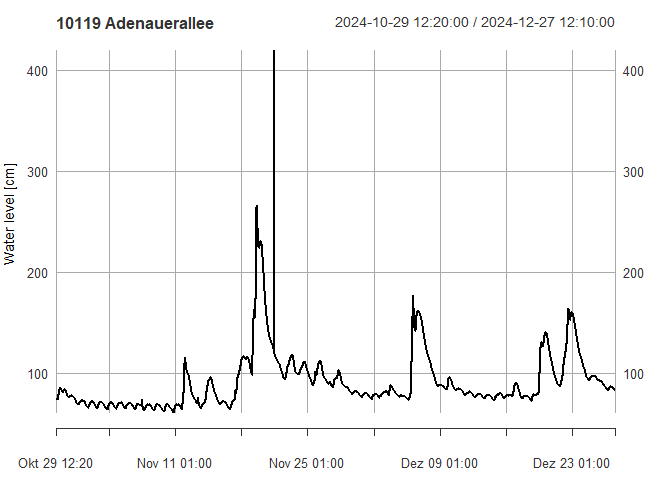
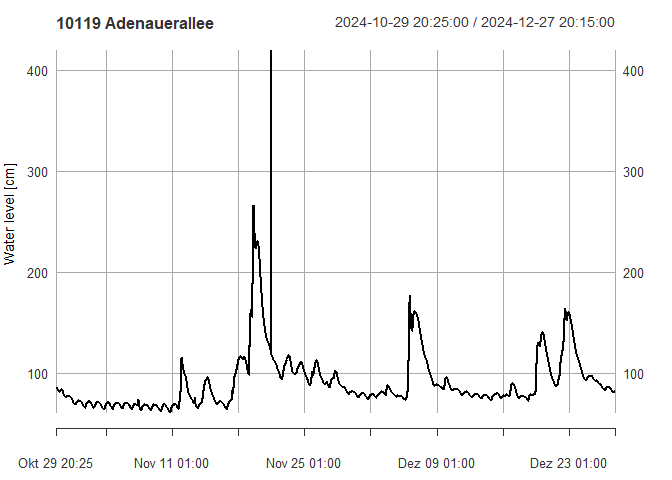
enh(get_eglv_*): progress
fixes #30

diff --git a/README.md b/README.md
@@ -30,7 +30,7 @@ and load the package via
 
 ``` r
 library(NRWgauges)
-#> 0.3.0
+#> 0.3.4
 ```
 
 ## Basic example: EGLV
@@ -89,11 +89,11 @@ gauge
 
 ``` r
 get_eglv_meta(gauge)
-#> # A tibble: 1 × 9
-#>   id    name        waterbody municipality      X      Y river_km catchment_area
-#>   <chr> <chr>       <chr>     <chr>         <dbl>  <dbl>    <dbl>          <dbl>
-#> 1 10119 Adenaueral… Emscher   Gelsenkirch… 3.67e5 5.71e6     36.4           481.
-#> # ℹ 1 more variable: level_zero <dbl>
+#> # A tibble: 1 × 10
+#>   id    name          operator waterbody municipality        X        Y river_km
+#>   <chr> <chr>         <chr>    <chr>     <chr>           <dbl>    <dbl>    <dbl>
+#> 1 10119 Adenauerallee EG       Emscher   Gelsenkirchen 367060. 5712147.     36.4
+#> # ℹ 2 more variables: catchment_area <dbl>, level_zero <dbl>
 ```
 
 ### Get available measurements for selected gauges
@@ -102,31 +102,28 @@ get_eglv_meta(gauge)
 # fetch water level measurements
 meas <- get_eglv_measurements(gauge)[[1]]
 meas
-#> Warning: object timezone ('etc/GMT-1') is different from system timezone ('')
-#>   NOTE: set 'options(xts_check_TZ = FALSE)' to disable this warning
-#>     This note is displayed once per session
 #>                     Wasserstand
-#> 2024-10-29 12:20:00          75
-#> 2024-10-29 12:25:00          75
-#> 2024-10-29 12:30:00          75
-#> 2024-10-29 12:35:00          75
-#> 2024-10-29 12:40:00          75
-#> 2024-10-29 12:45:00          75
-#> 2024-10-29 12:50:00          75
-#> 2024-10-29 12:55:00          75
-#> 2024-10-29 13:00:00          75
-#> 2024-10-29 13:05:00          75
+#> 2024-10-29 20:25:00          86
+#> 2024-10-29 20:30:00          86
+#> 2024-10-29 20:35:00          86
+#> 2024-10-29 20:40:00          86
+#> 2024-10-29 20:45:00          86
+#> 2024-10-29 20:50:00          86
+#> 2024-10-29 20:55:00          86
+#> 2024-10-29 21:00:00          86
+#> 2024-10-29 21:05:00          86
+#> 2024-10-29 21:10:00          86
 #>                 ...            
-#> 2024-12-27 11:25:00          85
-#> 2024-12-27 11:30:00          85
-#> 2024-12-27 11:35:00          84
-#> 2024-12-27 11:40:00          84
-#> 2024-12-27 11:45:00          84
-#> 2024-12-27 11:50:00          84
-#> 2024-12-27 11:55:00          84
-#> 2024-12-27 12:00:00          84
-#> 2024-12-27 12:05:00          84
-#> 2024-12-27 12:10:00          84
+#> 2024-12-27 19:30:00          83
+#> 2024-12-27 19:35:00          83
+#> 2024-12-27 19:40:00          83
+#> 2024-12-27 19:45:00          83
+#> 2024-12-27 19:50:00          83
+#> 2024-12-27 19:55:00          83
+#> 2024-12-27 20:00:00          83
+#> 2024-12-27 20:05:00          83
+#> 2024-12-27 20:10:00          83
+#> 2024-12-27 20:15:00          83
 
 class(meas)
 #> [1] "xts" "zoo"
